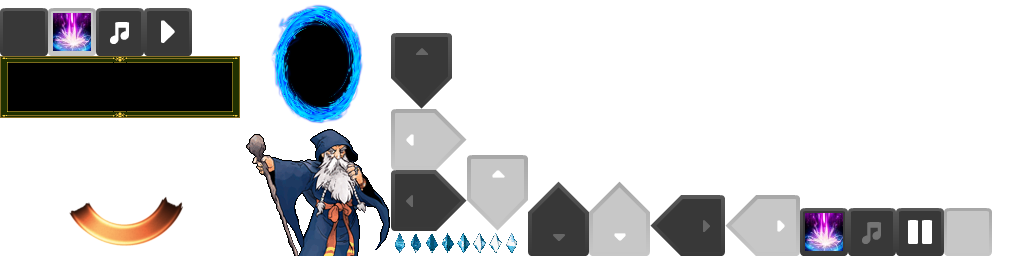
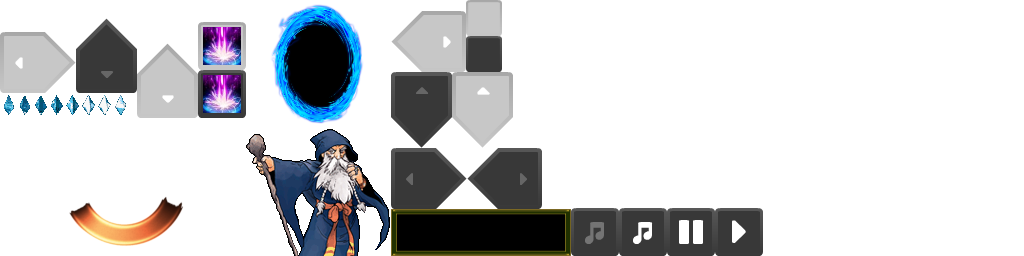
UI improvements
- dialog visuals improved
- added 9-patch for dialog and button
- removed unnecessary fonts

Changed region(s): [[0.375, 0.0, 0.9688, 1.0], [0.0, 0.0312, 0.25, 0.4688]]

diff --git a/core/src/com/lok/game/screens/TownScreen.java b/core/src/com/lok/game/screens/TownScreen.java
@@ -19,6 +19,7 @@ import com.badlogic.gdx.scenes.scene2d.ui.Skin;
 import com.badlogic.gdx.scenes.scene2d.ui.Table;
 import com.badlogic.gdx.scenes.scene2d.ui.TextButton.TextButtonStyle;
 import com.badlogic.gdx.scenes.scene2d.utils.TextureRegionDrawable;
+import com.badlogic.gdx.utils.Align;
 import com.badlogic.gdx.utils.viewport.FitViewport;
 import com.lok.game.AssetManager;
 
@@ -53,7 +54,7 @@ public class TownScreen extends Stage implements Screen, EventListener {
 	locationButton.getImage().addAction(Actions.forever(Actions.rotateBy(7.5f)));
 	locationButton.addListener(this);
 
-	final Label label = new Label(tooltipKey, skin, "title");
+	final Label label = new Label(tooltipKey, skin, "townlocation");
 	label.setPosition(x + 50, y + 20);
 
 	addActor(locationButton);
@@ -113,37 +114,52 @@ public class TownScreen extends Stage implements Screen, EventListener {
 	if (btnPortal.equals(event.getTarget()) && btnPortal.isChecked()) {
 	    btnPortal.setChecked(false);
 
-	    Dialog dia = new Dialog("Portal", skin, "dialog") {
+	    Dialog dia = new Dialog("", skin, "dialog") {
 		protected void result(Object object) {
 		    if (Boolean.TRUE.equals(object)) {
 			ScreenManager.getManager().setScreen(GameScreen.class);
 		    }
 		}
 	    };
-	    dia.getTitleTable().bottom().right().pad(0, 30, 0, 30);
 
-	    dia.getContentTable().add(skin.get("portal", Image.class));
-	    dia.text("Do you really want to enter the portal to the demon lair?", skin.get("normal", LabelStyle.class));
-	    dia.getContentTable().pad(30, 30, 0, 30);
+	    // title + image
+	    Table leftContent = new Table(skin);
+	    leftContent.add(new Label("Portal", skin.get("dialog-title", LabelStyle.class))).row();
+	    leftContent.add(skin.get("portal", Image.class)).expand().fill().bottom().padBottom(0);
+	    dia.getContentTable().add(leftContent).expand().fill();
 
-	    dia.button("Yes", true, skin.get("default", TextButtonStyle.class));
-	    dia.button("No", false, skin.get("default", TextButtonStyle.class));
-	    dia.getButtonTable().right().pad(0, 0, 25, 25);
+	    // text + buttons
+	    Table t = new Table(skin);
+	    Label lbl = new Label("Do you really want to enter the portal to the demon lair?", skin.get("normal", LabelStyle.class));
+	    lbl.setAlignment(Align.top, Align.left);
+	    t.add(lbl).expand().fill().top().padTop(15).row();
+	    dia.button("   Yes", true, skin.get("default", TextButtonStyle.class));
+	    dia.button("   No", false, skin.get("default", TextButtonStyle.class));
+	    t.add(dia.getButtonTable()).right().bottom();
+	    dia.getContentTable().add(t).expand().fill().padRight(10);
 
 	    dia.show(this).setPosition(dia.getX(), 20);
 
 	    return true;
 	} else if (btnElder.equals(event.getTarget()) && btnElder.isChecked()) {
 	    btnElder.setChecked(false);
-	    Dialog dia = new Dialog("Elder", skin, "dialog");
-	    dia.getTitleTable().bottom().right().pad(0, 30, 0, 30);
 
-	    dia.getContentTable().add(skin.get("elder", Image.class));
-	    dia.text("You need to enter the demon lair to be an awesome hero!\nGo now!!!", skin.get("normal", LabelStyle.class));
-	    dia.getContentTable().pad(30, 30, 0, 30);
+	    Dialog dia = new Dialog("", skin, "dialog");
 
-	    dia.button("Next", null, skin.get("default", TextButtonStyle.class));
-	    dia.getButtonTable().right().pad(0, 0, 25, 25);
+	    // title + image
+	    Table leftContent = new Table(skin);
+	    leftContent.add(new Label("Elder", skin.get("dialog-title", LabelStyle.class))).row();
+	    leftContent.add(skin.get("elder", Image.class)).expand().fill().bottom().padBottom(0);
+	    dia.getContentTable().add(leftContent).expand().fill();
+
+	    // text + buttons
+	    Table t = new Table(skin);
+	    Label lbl = new Label("You need to enter the demon lair to be an awesome hero!\nGo now!!!\n.\n.", skin.get("normal", LabelStyle.class));
+	    lbl.setAlignment(Align.top, Align.left);
+	    t.add(lbl).expand().fill().top().padTop(15).row();
+	    dia.button("Next", skin.get("default", TextButtonStyle.class));
+	    t.add(dia.getButtonTable()).right().bottom();
+	    dia.getContentTable().add(t).expand().fill().padRight(10);
 
 	    dia.show(this).setPosition(dia.getX(), 20);
 	}
